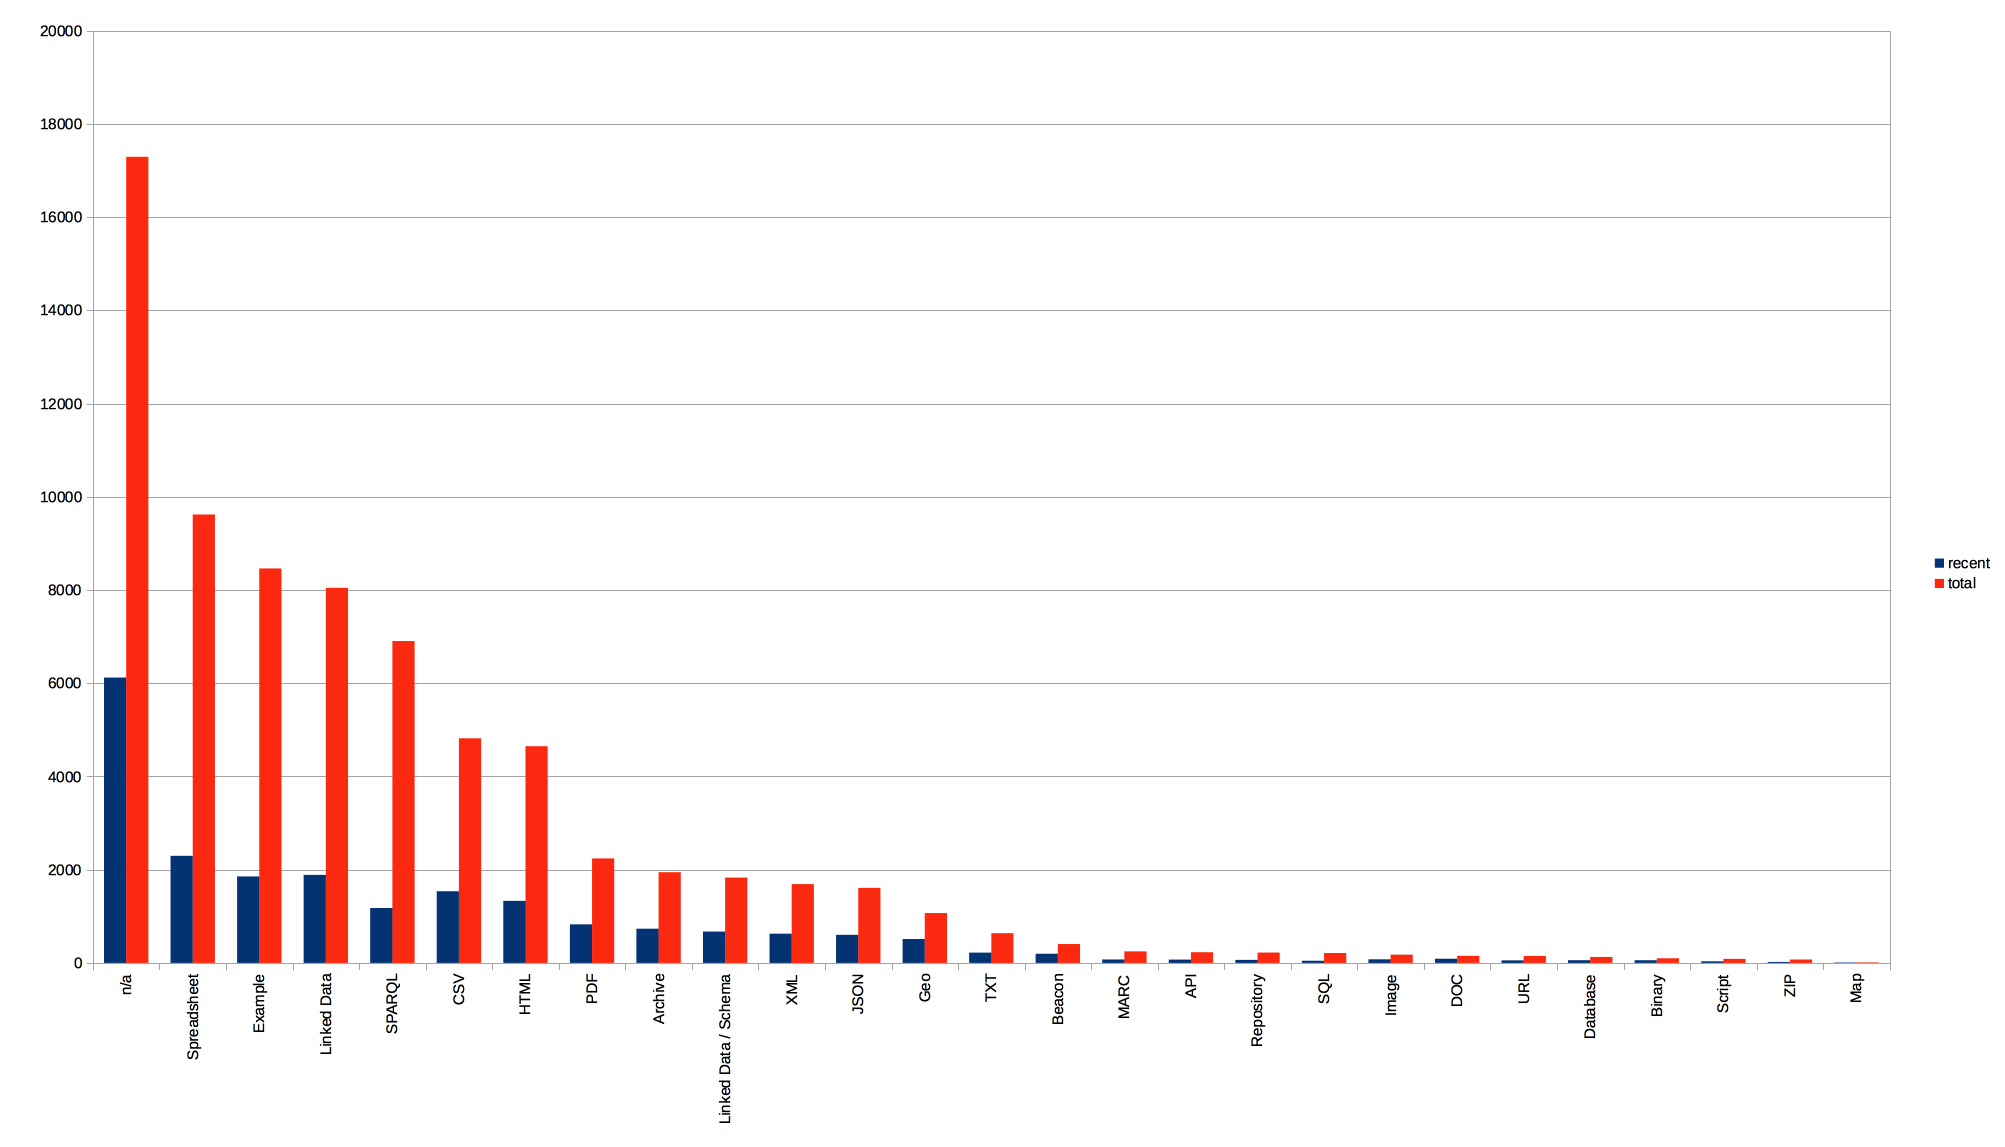
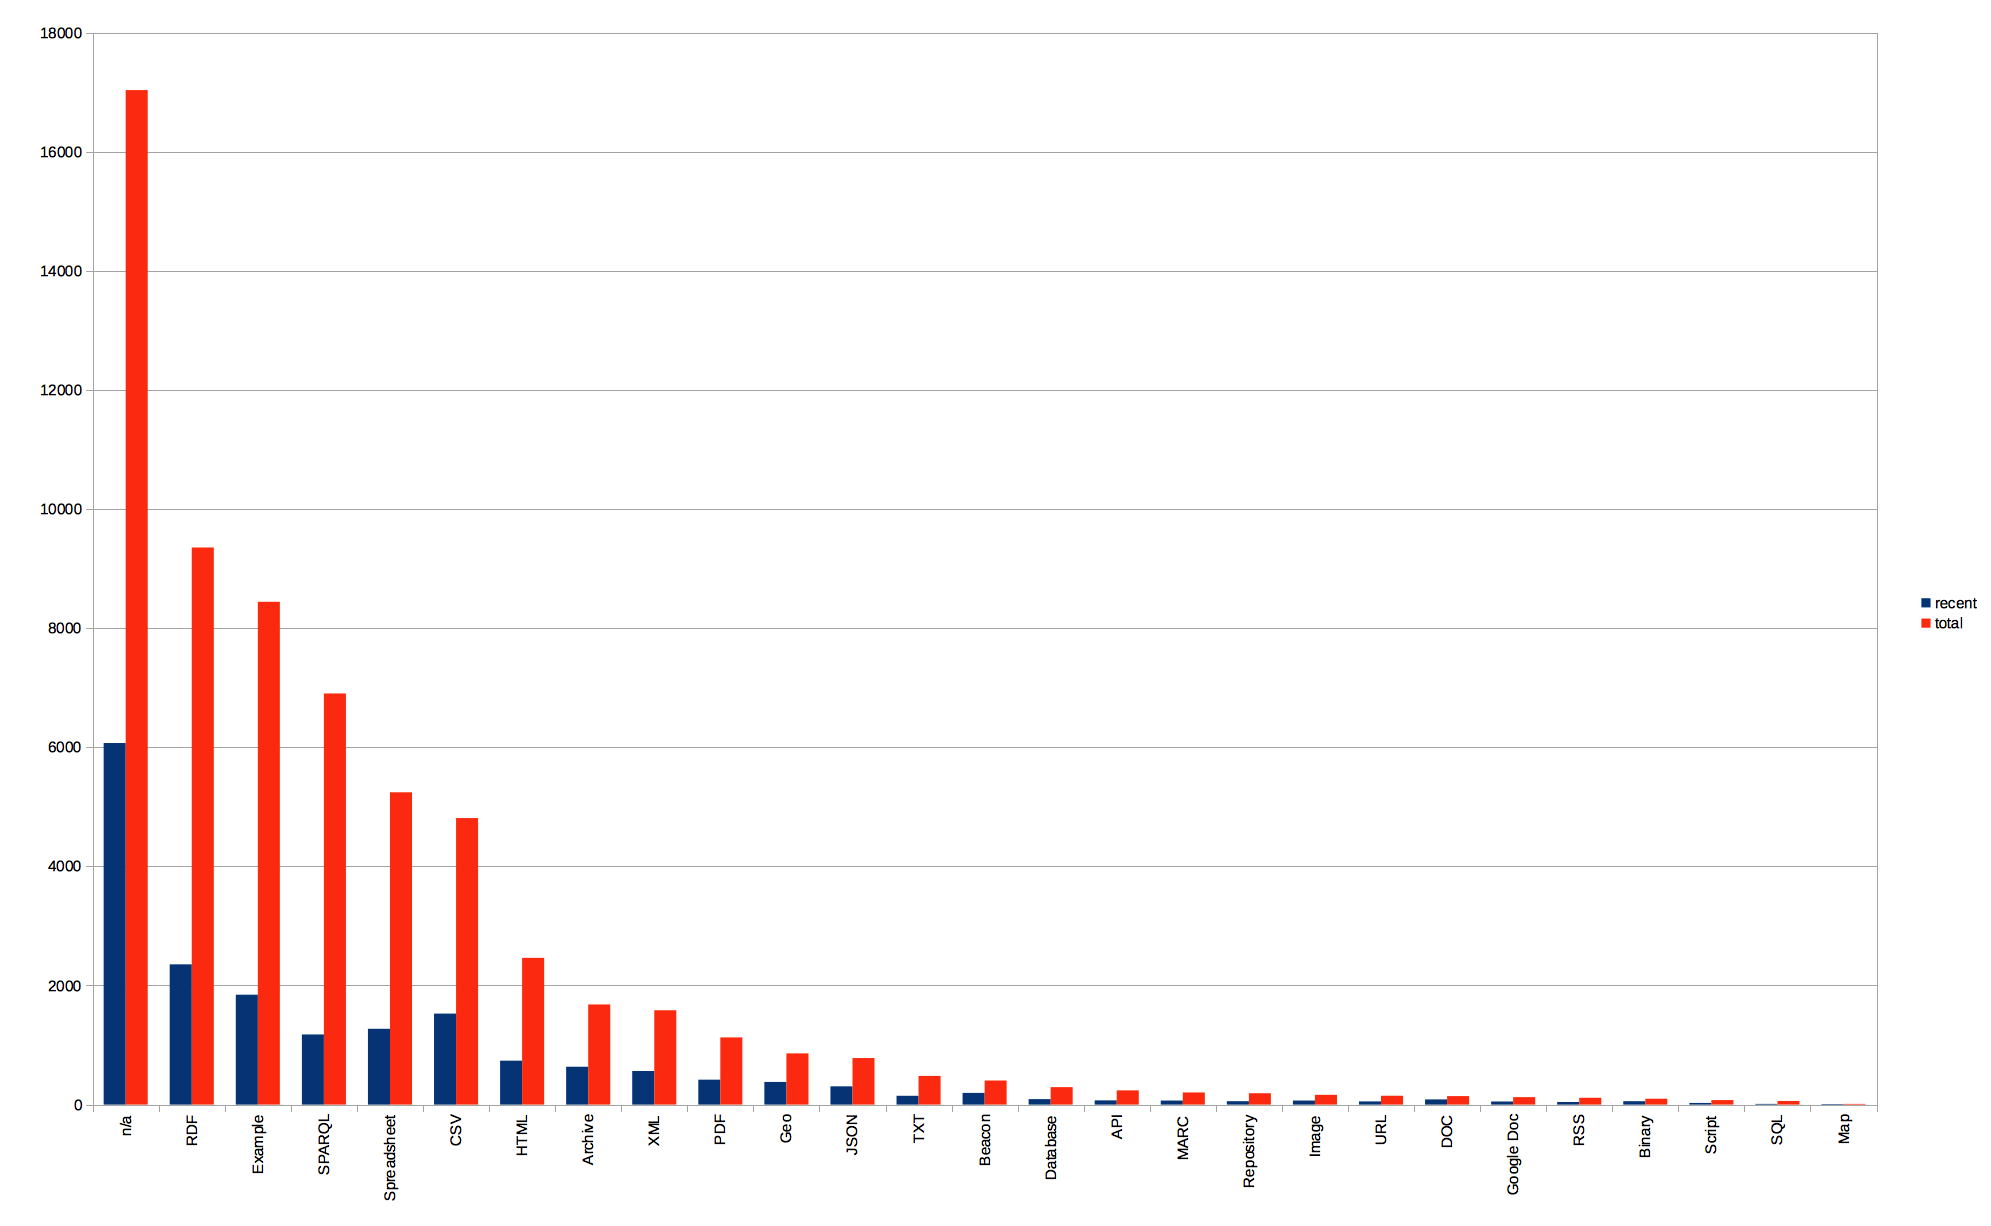
Re-Evaluated /w updated Mapping Table
Because the mapping table contained faulty reg-expressions, the join
operation in step 2
(https://github.com/heussd/CKANstats#correct-the-mess) duplicated some
information about the formats. This commit updated all relevant
evaluations and re-evaluated them based on the new, corrected mapping
table.

diff --git a/Readme.md b/Readme.md
@@ -204,34 +204,35 @@ The final view then selects any null-valued format:
 
 unified_format|count|%
 ----|----|----
-Spreadsheet|5197|20,26%
-PDF|3346|13,04%
-n/a|3025|11,79%
-CSV|2537|9,89%
-Linked Data|1909|7,44%
-HTML|1733|6,76%
-Image|1404|5,47%
-Example|1082|4,22%
-JSON|751|2,93%
-SPARQL|682|2,66%
-URL|627|2,44%
-Archive|571|2,23%
-Geo|562|2,19%
-XML|521|2,03%
-Linked Data / Schema|510|1,99%
-Database|478|1,86%
-TXT|199|0,78%
-Binary|137|0,53%
-DOC|72|0,28%
-API|62|0,24%
-Beacon|59|0,23%
-MARC|58|0,23%
-SQL|30|0,12%
-Map|25|0,10%
-ZIP|24|0,09%
-Repository|23|0,09%
-Script|22|0,09%
-GTFS|6|0,02%
+n/a|2983|14.78%
+Spreadsheet|2966|14.70%
+CSV|2533|12.55%
+RDF|2279|11.29%
+PDF|1643|8.14%
+Image|1371|6.79%
+Example|1079|5.35%
+HTML|985|4.88%
+SPARQL|682|3.38%
+URL|627|3.11%
+Archive|534|2.65%
+Geo|511|2.53%
+Database|493|2.44%
+XML|463|2.29%
+JSON|364|1.80%
+Binary|137|0.68%
+TXT|132|0.65%
+DOC|69|0.34%
+API|63|0.31%
+Beacon|59|0.29%
+MARC|51|0.25%
+RSS|47|0.23%
+Repository|28|0.14%
+Map|25|0.12%
+Script|20|0.10%
+Google Doc|17|0.08%
+SQL|12|0.06%
+GTFS|3|0.01%
+Sound|2|0.01%
 
 
 ### About openness
@@ -248,35 +249,34 @@ GTFS|6|0,02%
 
 unified_format|open|non-open|% openness
 ----|-----|-----|----
-MARC|58|0|100.00
-GTFS|6|0|100.00
+MARC|51|0|100.00
+GTFS|3|0|100.00
 Beacon|58|1|98.31
-Image|1253|151|89.25
+Image|1227|144|89.50
 URL|535|92|85.33
-Linked Data|1509|400|79.05
-JSON|538|213|71.64
+SQL|10|2|83.33
+RDF|1725|554|75.69
+RSS|34|13|72.34
+JSON|259|105|71.15
 SPARQL|472|210|69.21
+API|43|20|68.25
 Map|17|8|68.00
-API|42|20|67.74
-Repository|15|8|65.22
 Binary|87|50|63.50
-Linked Data / Schema|316|194|61.96
-Geo|341|221|60.68
-XML|313|208|60.08
-n/a|1794|1231|59.31
-CSV|1492|1045|58.81
-ZIP|14|10|58.33
-Archive|326|245|57.09
-SQL|16|14|53.33
-Example|541|541|50.00
-DOC|34|38|47.22
-Script|10|12|45.45
-TXT|90|109|45.23
-HTML|725|1008|41.83
-Spreadsheet|932|4265|17.93
-PDF|497|2849|14.85
-Database|38|440|7.95
-
+Geo|313|198|61.25
+XML|273|190|58.96
+n/a|1758|1225|58.93
+CSV|1490|1043|58.82
+Repository|16|12|57.14
+Archive|292|242|54.68
+Example|541|538|50.14
+DOC|34|35|49.28
+TXT|57|75|43.18
+HTML|398|587|40.41
+Script|8|12|40.00
+Google Doc|6|11|35.29
+Spreadsheet|634|2332|21.38
+PDF|224|1419|13.63
+Database|47|446|9.53
 
 ### Created vs. Timestamp, Ages in days
 	select resource_id, round(EXTRACT('epoch' FROM created)/86400) created, round(EXTRACT('epoch' from a.updated)/86400) as updated from (
@@ -323,34 +323,34 @@ Database|38|440|7.95
 
 unified\_format|average\_created\_updated\_diff|stdev\_created\_updated\_diff
 ----|----|----
-Image|80.28|65.95
-Archive|61.54|130.67
-API|52.65|154.97
-SPARQL|40.34|118.57
-TXT|24.70|76.22
-Example|21.88|98.27
-Linked Data|19.66|87.13
-n/a|17.51|84.85
-XML|17.03|81.83
-ZIP|12.74|44.45
-HTML|12.71|83.19
-PDF|12.67|29.86
-Beacon|11.86|7.21
-JSON|10.32|32.25
-Map|9.90|32.61
-Binary|9.89|61.59
-Linked Data / Schema|8.21|41.73
-CSV|4.56|36.23
-Script|2.34|2.33
-Spreadsheet|2.19|26.89
-DOC|1.06|2.53
-Geo|1.05|9.75
-URL|0.85|13.61
-Database|0.28|2.59
-SQL|0.14|0.51
-GTFS|0.00|0.00
-Repository|0.00|0.00
+Image|81.89|65.72
+Archive|56.63|123.91
+API|52.76|154.96
+SPARQL|40.38|118.51
+RSS|28.80|14.50
+TXT|28.37|82.42
+Example|21.97|98.39
+HTML|18.33|105.33
+n/a|18.29|87.06
+RDF|16.78|78.40
+XML|16.32|86.99
+PDF|13.16|31.03
+Beacon|12.00|7.07
+JSON|10.18|32.91
+Binary|9.98|61.66
+Map|9.82|32.56
+CSV|4.58|36.22
+Script|2.67|2.58
+Spreadsheet|1.97|25.03
+DOC|1.58|2.95
+Geo|1.09|9.38
+URL|0.76|13.60
+SQL|0.43|0.53
+Database|0.30|2.59
+Google Doc|0.00|
 MARC|0.00|0.00
+Repository|0.00|0.00
+GTFS|0.00|0.00
 
 
 ### Recent & total visits per format
@@ -364,7 +364,7 @@ MARC|0.00|0.00
 	where resource_tracking_summary_total > 0
 	group by unified_format order by sum(resource_tracking_summary_total) desc ) as b
 	on a.unified_format = b.unified_format
-	order by total described
+	order by total desc
 	
 ![](visitsperformat.png)
 
